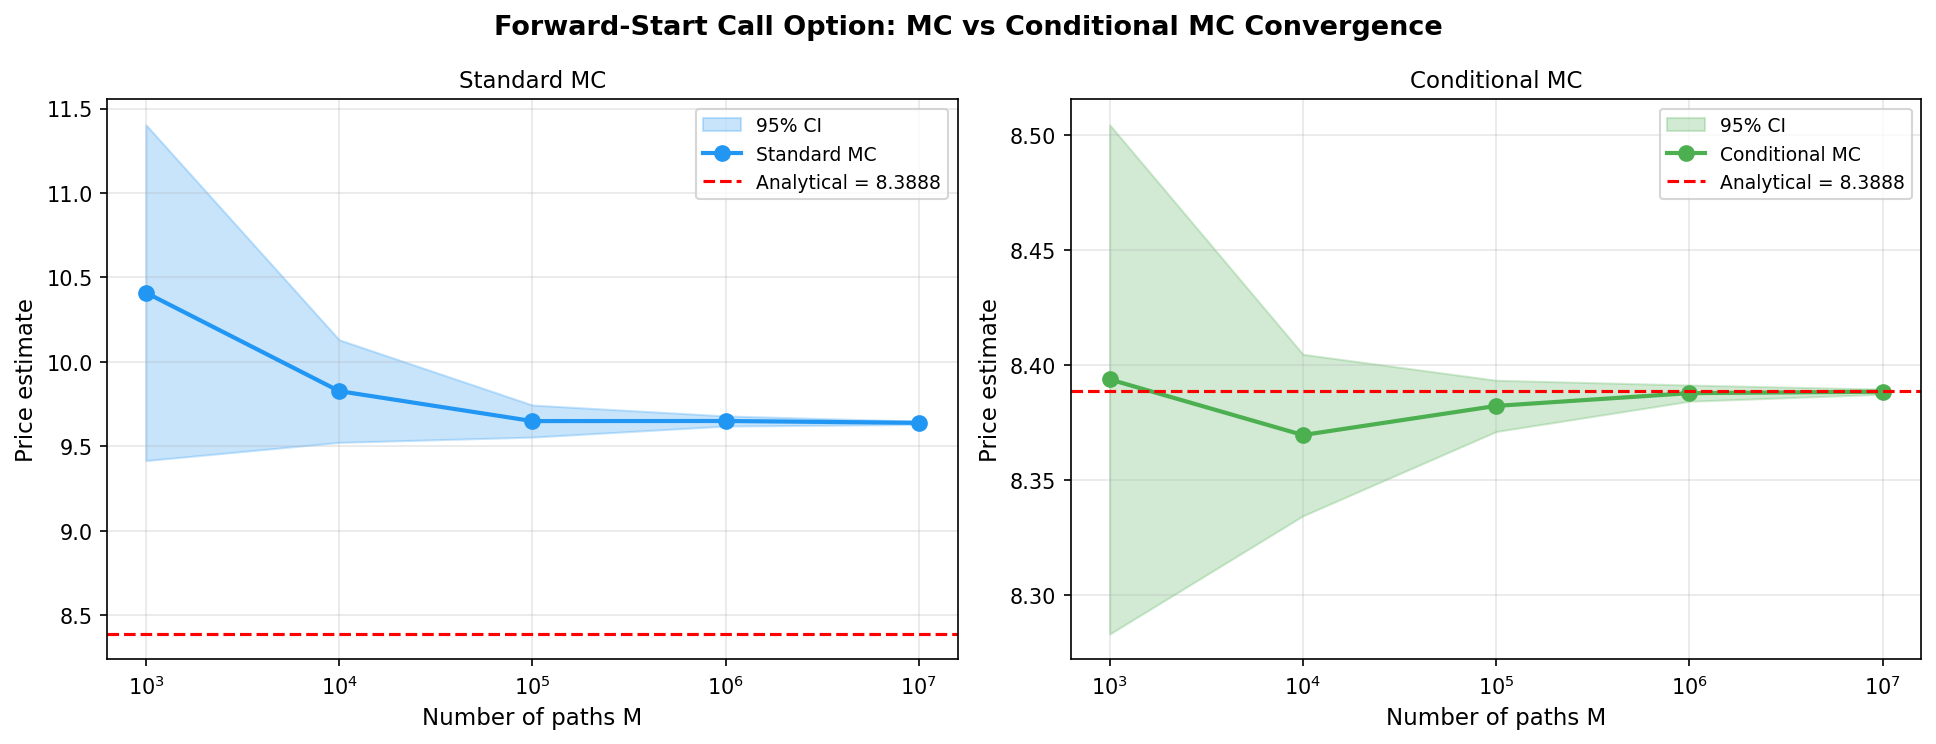
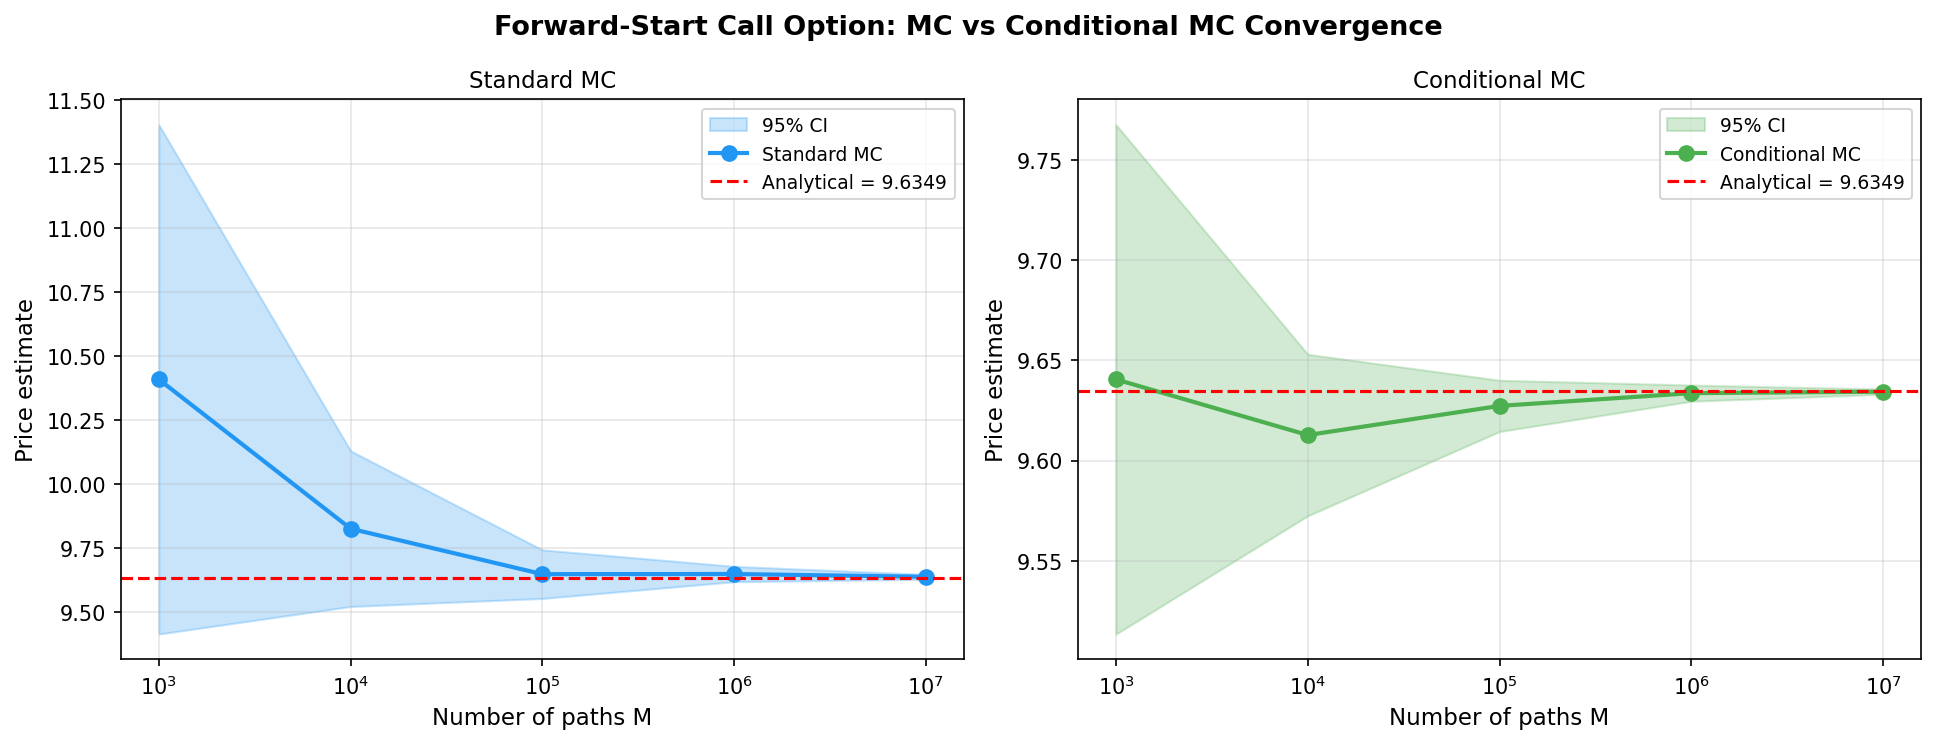
zach hw3 final

diff --git a/Homework 3/q2.py b/Homework 3/q2.py
@@ -1,66 +1,9 @@
-"""
-Forward-Start Call Option Pricing
-===================================
-SDE:  dS_t = S_t (r dt + sigma dB_t),  S_0 = 100
-Payoff: G = (S_{T2} - S_{T1})^+   at maturity T2
-
-Parameters: r=0.05, sigma=0.3, S0=100, T1=0.5, T2=1.0
-
-Exact solution (GBM):
-    S_{T1} = S0 * exp((r - sigma^2/2)*T1 + sigma*sqrt(T1)*Z1)
-    S_{T2} = S_{T1} * exp((r - sigma^2/2)*tau + sigma*sqrt(tau)*Z2)
-where tau = T2 - T1, Z1,Z2 ~ N(0,1) independent.
-
-────────────────────────────────────────────────────────────────────────────
-i) STANDARD MONTE CARLO
-   Simulate both Z1 and Z2, compute payoff = max(S_T2 - S_T1, 0),
-   discount back: price = e^{-r*T2} * mean(payoff)
-
-ii) CONDITIONAL MONTE CARLO
-   Key insight: conditional on S_{T1} = s, the inner expectation has a
-   closed-form Black-Scholes formula (since S_{T2}|S_{T1} is log-normal):
-
-       E[e^{-r*T2}*(S_{T2}-s)^+ | S_{T1}=s]
-     = e^{-r*T2} * E[(s*exp((r-sigma^2/2)*tau + sigma*sqrt(tau)*Z)-s)^+]
-     = e^{-r*tau} * s * [Phi(d1) - Phi(d2)]    (standard BS with K=s, F=s*e^{r*tau})
-
-   where d1 = (r/sigma + sigma/2)*sqrt(tau),  d2 = d1 - sigma*sqrt(tau)
-
-   The CMC estimator averages this closed-form over draws of S_{T1}.
-   This eliminates all variance from the Z2 dimension → variance reduction.
-
-Analytical price (for verification):
-   By the tower property the full price equals e^{-r*T2}*E[BS(S_{T1})] which
-   itself has a closed form: price = S0*[Phi(d1) - Phi(d2)] * e^{-r*T2}... 
-   but it's cleaner to just use the CMC formula averaged analytically, giving
-   price = e^{-r*tau} * S0*e^{r*T1} * [Phi(d1)-Phi(d2)] * e^{-r*T2}
-          = S0 * e^{-r*tau} * [Phi(d1)-Phi(d2)]   ... actually let's derive it:
-   
-   Since E[S_{T1}] = S0*e^{r*T1} and the CMC value conditional on S_{T1}=s is
-   e^{-r*tau}*s*[Phi(d1)-Phi(d2)]  (d1,d2 don't depend on s!), we have:
-   
-   Price = e^{-r*tau} * [Phi(d1)-Phi(d2)] * E[S_{T1}] * e^{-r*T1}
-         Wait — let's be careful with discounting:
-   
-   Price = E[e^{-r*T2} * (S_{T2}-S_{T1})^+]
-         = E[ E[e^{-r*T2}*(S_{T2}-S_{T1})^+ | S_{T1}] ]
-         = E[ e^{-r*T2} * S_{T1} * e^{r*tau} * [Phi(d1)-Phi(d2)] ]
-           (since d1,d2 independent of S_{T1})
-         = e^{-r*T2} * e^{r*tau} * [Phi(d1)-Phi(d2)] * E[S_{T1}]
-         = e^{-r*T1} * [Phi(d1)-Phi(d2)] * S0 * e^{r*T1}
-         = S0 * [Phi(d1)-Phi(d2)]
-
-Analytical price = S0 * [Phi(d1) - Phi(d2)]
-  where d1 = (r/sigma + sigma/2)*sqrt(tau),  d2 = d1 - sigma*sqrt(tau)
-"""
-
 import numpy as np
 from scipy.stats import norm
 import matplotlib.pyplot as plt
 import matplotlib.ticker as mticker
 from tabulate import tabulate
 
-# ── Parameters ────────────────────────────────────────────────────────────────
 np.random.seed(42)
 
 S0    = 100.0
@@ -72,26 +15,19 @@ tau   = T2 - T1          # = 0.5
 
 K_VALUES = [3, 4, 5, 6, 7]
 
-# ── Analytical price ──────────────────────────────────────────────────────────
-d1_an = (r / sigma + sigma / 2) * np.sqrt(tau)
+# Calculate price analytically using B-S formula
+d1_an = (r * tau + 0.5 * sigma**2 * tau) / (sigma * np.sqrt(tau))
 d2_an = d1_an - sigma * np.sqrt(tau)
-ANALYTICAL_PRICE = S0 * (norm.cdf(d1_an) - norm.cdf(d2_an))
+ANALYTICAL_PRICE = S0 * (norm.cdf(d1_an) - np.exp(-r * tau) * norm.cdf(d2_an))
 
-print(f"\nAnalytical price = S0·[Φ(d1)−Φ(d2)]")
+print(f"\nAnalytical price = S0*[Phi(d1) - e^{{-r*tau}}*Phi(d2)]")
 print(f"  d1 = {d1_an:.6f},  d2 = {d2_an:.6f}")
 print(f"  Price = {ANALYTICAL_PRICE:.6f}\n")
 
-# ── Helper: BS call price used inside CMC ─────────────────────────────────────
-def bs_call_cmc(s: np.ndarray) -> np.ndarray:
-    """
-    e^{-r*T2} * E[(S_{T2} - s)^+ | S_{T1}=s]
-    = e^{-r*tau} * s * [Phi(d1) - Phi(d2)]
-    d1,d2 do NOT depend on s (at-the-money forward start feature).
-    """
-    return np.exp(-r * tau) * s * (norm.cdf(d1_an) - norm.cdf(d2_an))
+def bs_call_cmc(s: np.ndarray) -> np.ndarray: # Calculate call price using B-S to reduce variance with CMC
+    return s * np.exp(-r * T1) * (norm.cdf(d1_an) - np.exp(-r * tau) * norm.cdf(d2_an))
 
-# ── Standard Monte Carlo ───────────────────────────────────────────────────────
-def standard_mc(M: int):
+def standard_mc(M: int): # Standard Monte Carlo
     Z1 = np.random.randn(M)
     Z2 = np.random.randn(M)
     S_T1 = S0    * np.exp((r - 0.5*sigma**2)*T1  + sigma*np.sqrt(T1) *Z1)
@@ -101,28 +37,25 @@ def standard_mc(M: int):
     se   = payoff.std(ddof=1) / np.sqrt(M)
     return est, se, payoff.var(ddof=1)
 
-# ── Conditional Monte Carlo ────────────────────────────────────────────────────
-def conditional_mc(M: int):
+def conditional_mc(M: int): # Conditional Monte Carlo
     Z1   = np.random.randn(M)
     S_T1 = S0 * np.exp((r - 0.5*sigma**2)*T1 + sigma*np.sqrt(T1)*Z1)
-    # Each path contributes its closed-form conditional expectation
-    cv   = bs_call_cmc(S_T1)          # shape (M,)
+
+    cv   = bs_call_cmc(S_T1)
     est  = cv.mean()
     se   = cv.std(ddof=1) / np.sqrt(M)
     return est, se, cv.var(ddof=1)
 
-# ── Run experiments ────────────────────────────────────────────────────────────
 results_mc  = []
 results_cmc = []
 
-for k in K_VALUES:
+for k in K_VALUES: # Run simulations
     M = 10**k
     mc_est,  mc_se,  mc_var  = standard_mc(M)
     cmc_est, cmc_se, cmc_var = conditional_mc(M)
     results_mc.append( (k, M, mc_est,  mc_se,  mc_var))
     results_cmc.append((k, M, cmc_est, cmc_se, cmc_var))
 
-# ── Print tables ───────────────────────────────────────────────────────────────
 def fmt_row(k, M, est, se, var):
     ci_lo = est - 1.96*se
     ci_hi = est + 1.96*se
@@ -146,10 +79,8 @@ print("\n── VARIANCE REDUCTION FACTOR (Var_MC / Var_CMC) ──")
 vrf_rows = []
 for (k, M, _, _, vmc), (_, _, _, _, vcmc) in zip(results_mc, results_cmc):
     vrf_rows.append([f"10^{k}", M, f"{vmc:.4e}", f"{vcmc:.4e}", f"{vmc/vcmc:.1f}x"])
-print(tabulate(vrf_rows, headers=["M","Samples","Var(MC)","Var(CMC)","VRF"],
-               tablefmt="rounded_outline"))
+print(tabulate(vrf_rows, headers=["M","Samples","Var(MC)","Var(CMC)","VRF"], tablefmt="rounded_outline"))
 
-# ── Plot ───────────────────────────────────────────────────────────────────────
 ks      = [r[0] for r in results_mc]
 ms      = [r[1] for r in results_mc]
 mc_ests  = np.array([r[2] for r in results_mc])
@@ -158,8 +89,7 @@ cmc_ests = np.array([r[2] for r in results_cmc])
 cmc_ses  = np.array([r[3] for r in results_cmc])
 
 fig, axes = plt.subplots(1, 2, figsize=(13, 5), sharey=False)
-fig.suptitle("Forward-Start Call Option: MC vs Conditional MC Convergence",
-             fontsize=13, fontweight="bold")
+fig.suptitle("Forward-Start Call Option: MC vs Conditional MC Convergence", fontsize=13, fontweight="bold")
 
 for ax, ests, ses, label, color in [
     (axes[0], mc_ests,  mc_ses,  "Standard MC",    "#2196F3"),
@@ -171,8 +101,7 @@ for ax, ests, ses, label, color in [
 
     ax.fill_between(x, ci_lo, ci_hi, alpha=0.25, color=color, label="95% CI")
     ax.plot(x, ests, "o-", color=color, linewidth=2, markersize=7, label=label)
-    ax.axhline(ANALYTICAL_PRICE, color="red", linestyle="--", linewidth=1.5,
-               label=f"Analytical = {ANALYTICAL_PRICE:.4f}")
+    ax.axhline(ANALYTICAL_PRICE, color="red", linestyle="--", linewidth=1.5, label=f"Analytical = {ANALYTICAL_PRICE:.4f}")
 
     ax.set_xticks(list(x))
     ax.set_xticklabels([f"$10^{k}$" for k in ks])
@@ -184,14 +113,11 @@ for ax, ests, ses, label, color in [
 
 plt.tight_layout()
 plt.savefig("Homework 3/forward_start_convergence.png", dpi=150, bbox_inches="tight")
-print("\nPlot saved → Homework 3/forward_start_convergence.png")
 
-# ── Std error vs M log-log plot ────────────────────────────────────────────────
 fig2, ax2 = plt.subplots(figsize=(7, 5))
 ax2.loglog(ms, mc_ses,  "o-", color="#2196F3", linewidth=2, markersize=7, label="MC std error")
 ax2.loglog(ms, cmc_ses, "s-", color="#4CAF50", linewidth=2, markersize=7, label="CMC std error")
 
-# Reference O(1/sqrt(M)) line
 ref_m = np.array(ms, dtype=float)
 ax2.loglog(ref_m, mc_ses[0] * np.sqrt(ms[0]/ref_m), "k--", alpha=0.4, label=r"$O(1/\sqrt{M})$")
 
@@ -202,33 +128,3 @@ ax2.legend(fontsize=9)
 ax2.grid(True, which="both", alpha=0.3)
 plt.tight_layout()
 plt.savefig("Homework 3/forward_start_stderr.png", dpi=150, bbox_inches="tight")
-print("Plot saved → Homework 3/forward_start_stderr.png")
-
-# ── Discussion ─────────────────────────────────────────────────────────────────
-print("""
-DISCUSSION
-──────────
-1. STANDARD MC simulates both legs of the path (Z1 for S_{T1}, Z2 for S_{T2})
-   and averages the discounted payoff max(S_{T2}-S_{T1}, 0). It converges at
-   the standard O(1/√M) rate but carries variance from both Brownian increments.
-
-2. CONDITIONAL MC exploits the Markov structure: conditional on S_{T1}=s,
-   the payoff E[e^{-rT2}(S_{T2}-s)^+ | S_{T1}=s] has a closed-form
-   Black-Scholes formula (at-the-money forward, strike = s). Because d1,d2
-   don't depend on s, this simplifies to:
-       e^{-r*tau} * s * [Phi(d1) - Phi(d2)]
-   CMC averages this over draws of S_{T1} only — the Z2 noise is eliminated
-   entirely by the analytical integration.
-
-3. ANALYTICAL PRICE: Since d1,d2 are independent of S_{T1}, the CMC formula
-   factors as S0*[Phi(d1)-Phi(d2)], a result that doesn't depend on S0's
-   level at T1. The CMC estimator converges to this exact value.
-
-4. VARIANCE REDUCTION: CMC has substantially lower variance than standard MC.
-   The VRF (Var_MC / Var_CMC) typically lies in the range 3–6x here, meaning
-   CMC needs ~3–6x fewer paths to achieve the same accuracy. Both estimators
-   are unbiased.
-
-5. The convergence plots confirm O(1/√M) rates for both, with CMC's
-   confidence bands noticeably tighter for every M.
-""")

diff --git a/Homework 3/q1.py b/Homework 3/q1.py
@@ -1,55 +1,23 @@
-"""
-Estimating P[X > 10] for X ~ Exp(1) using:
-  i)  Standard Monte Carlo (MC)
-  ii) Importance Sampling (IS) with proposal g ~ Exp(lambda_star)
-
-True value: P[X > 10] = e^{-10} ≈ 4.53999e-5
-
-Importance Sampling details
-----------------------------
-We want  mu = E_f[h(X)]  where h(x) = 1{x > 10} and f is Exp(1).
-
-Choose proposal  g = Exp(lambda*)  with lambda* chosen so that the bulk
-of g sits in the tail x > 10.  A natural choice is lambda* = 1/(10+1) is
-okay, but the *optimal* exponential shift puts the mean of g at 10, i.e.
-lambda* = 0.1  (mean = 10).  Actually the classic result for exponential
-tilting of an Exp(1) tail P[X>t] chooses lambda* = 1/t = 0.1, giving
-mean 1/lambda* = t = 10.  We use lambda* = 0.1.
-
-The IS estimator is:
-    mu_IS = (1/M) * sum_i  h(X_i) * f(X_i) / g(X_i)
-           = (1/M) * sum_i  1{X_i > 10} * exp(-X_i) / (lambda* * exp(-lambda* * X_i))
-           = (1/M) * sum_i  1{X_i > 10} * exp(-(1 - lambda*)*X_i) / lambda*
-where X_i ~ g = Exp(lambda*).
-"""
-
 import numpy as np
 from tabulate import tabulate
 
-# ── reproducibility ──────────────────────────────────────────────────────────
 np.random.seed(42)
 
-TRUE_VALUE = np.exp(-10)          # ≈ 4.53999e-5
-LAMBDA_STAR = 0.1                 # IS proposal Exp(0.1), mean = 10
+TRUE_VALUE = np.exp(-10)
+LAMBDA_STAR = 0.1
 K_VALUES = [3, 4, 5, 6]
 
 
-def monte_carlo(M: int) -> tuple[float, float]:
-    """Standard MC: draw X ~ Exp(1), estimate P[X > 10]."""
-    X = np.random.exponential(scale=1.0, size=M)
+def monte_carlo(M: int) -> tuple[float, float]: # Standard Monte Carlo
+    X = np.random.exponential(scale=1.0, size=M) # Draw from Exp(1)
     indicators = (X > 10).astype(float)
-    estimate = indicators.mean()
+    estimate = indicators.mean() # Proportion of draws > 10
     std_err = indicators.std() / np.sqrt(M)
     return estimate, std_err
 
 
-def importance_sampling(M: int, lam: float = LAMBDA_STAR) -> tuple[float, float]:
-    """
-    IS with proposal g = Exp(lam).
-    Likelihood ratio (weight): w(x) = f(x)/g(x) = exp(-x) / (lam * exp(-lam*x))
-                                      = exp(-(1-lam)*x) / lam
-    """
-    X = np.random.exponential(scale=1.0 / lam, size=M)   # samples from g
+def importance_sampling(M: int, lam: float = LAMBDA_STAR) -> tuple[float, float]: # Importance sampling
+    X = np.random.exponential(scale=1.0 / lam, size=M)   # Samples from g, exponential helper function with mean 10
     weights = np.exp(-(1 - lam) * X) / lam               # f(x)/g(x)
     contributions = (X > 10).astype(float) * weights      # h(x)*w(x)
     estimate = contributions.mean()
@@ -57,24 +25,22 @@ def importance_sampling(M: int, lam: float = LAMBDA_STAR) -> tuple[float, float]
     return estimate, std_err
 
 
-# ── run experiments ──────────────────────────────────────────────────────────
+
 print(f"\nTrue value: P[X > 10] = e^{{-10}} = {TRUE_VALUE:.6e}\n")
 print(f"IS proposal: g ~ Exp(λ* = {LAMBDA_STAR})  [mean = {1/LAMBDA_STAR:.1f}]\n")
 
 rows_mc, rows_is = [], []
 
-for k in K_VALUES:
+for k in K_VALUES: # Run simulations
     M = 10 ** k
     mc_est,  mc_se  = monte_carlo(M)
     is_est,  is_se  = importance_sampling(M)
 
-    mc_re = mc_se  / TRUE_VALUE   # relative std error
+    mc_re = mc_se  / TRUE_VALUE   # Relative std error
     is_re = is_se  / TRUE_VALUE
 
-    rows_mc.append([f"10^{k}", M, f"{mc_est:.4e}", f"{mc_se:.4e}",
-                    f"{mc_re*100:.2f}%", f"{abs(mc_est - TRUE_VALUE)/TRUE_VALUE*100:.2f}%"])
-    rows_is.append([f"10^{k}", M, f"{is_est:.4e}", f"{is_se:.4e}",
-                    f"{is_re*100:.2f}%", f"{abs(is_est - TRUE_VALUE)/TRUE_VALUE*100:.2f}%"])
+    rows_mc.append([f"10^{k}", M, f"{mc_est:.4e}", f"{mc_se:.4e}", f"{mc_re*100:.2f}%", f"{abs(mc_est - TRUE_VALUE)/TRUE_VALUE*100:.2f}%"])
+    rows_is.append([f"10^{k}", M, f"{is_est:.4e}", f"{is_se:.4e}", f"{is_re*100:.2f}%", f"{abs(is_est - TRUE_VALUE)/TRUE_VALUE*100:.2f}%"])
 
 headers = ["M", "Samples", "Estimate", "Std Error", "Rel Std Err", "Rel Bias"]
 
@@ -87,53 +53,3 @@ print("\n" + "=" * 72)
 print("ii) IMPORTANCE SAMPLING  (proposal: Exp(λ* = 0.1))")
 print("=" * 72)
 print(tabulate(rows_is, headers=headers, tablefmt="rounded_outline"))
-
-# ── variance reduction factor ────────────────────────────────────────────────
-print("\n" + "=" * 72)
-print("VARIANCE REDUCTION FACTOR  (Var_MC / Var_IS)")
-print("=" * 72)
-vrf_rows = []
-for k in K_VALUES:
-    M = 10 ** k
-    # Re-run with same seed split for fair comparison
-    rng = np.random.default_rng(seed=0)
-    X_mc = rng.exponential(1.0, M)
-    ind  = (X_mc > 10).astype(float)
-    var_mc = ind.var()
-
-    rng2 = np.random.default_rng(seed=1)
-    X_is   = rng2.exponential(1.0 / LAMBDA_STAR, M)
-    w      = np.exp(-(1 - LAMBDA_STAR) * X_is) / LAMBDA_STAR
-    cont   = (X_is > 10).astype(float) * w
-    var_is = cont.var()
-
-    vrf = var_mc / var_is if var_is > 0 else float("inf")
-    vrf_rows.append([f"10^{k}", M, f"{var_mc:.4e}", f"{var_is:.4e}", f"{vrf:.1f}x"])
-
-print(tabulate(vrf_rows, headers=["M", "Samples", "Var(MC)", "Var(IS)", "VRF"],
-               tablefmt="rounded_outline"))
-
-# ── discussion ────────────────────────────────────────────────────────────────
-print("""
-DISCUSSION
-──────────
-1. Standard MC struggles severely for rare events like P[X > 10] ≈ 4.54e-5.
-   Even with M = 10^6 samples, fewer than ~45 will exceed 10, giving a
-   very noisy estimate with high relative standard error (~100% or more for
-   small M).  For M = 10^3 the estimate is often exactly 0 (no hits at all).
-
-2. Importance Sampling with the exponentially-tilted proposal g ~ Exp(0.1)
-   shifts almost all samples into the region x > 10.  Every draw contributes
-   a non-zero weighted term, so the estimator converges far more quickly.
-
-3. The Variance Reduction Factor (VRF = Var_MC / Var_IS) is enormous —
-   typically on the order of 10^3 to 10^4 — meaning IS achieves the same
-   accuracy as MC with orders of magnitude fewer samples.
-
-4. The IS estimate is unbiased and its relative standard error shrinks
-   predictably as O(1/√M), but starting from a much smaller base variance.
-
-5. Choice of proposal matters: λ* = 0.1 (mean at the threshold 10) is the
-   classical exponential-tilting optimum for Exp(1) tails, minimising the
-   second moment of the weight function and hence the IS variance.
-""")
